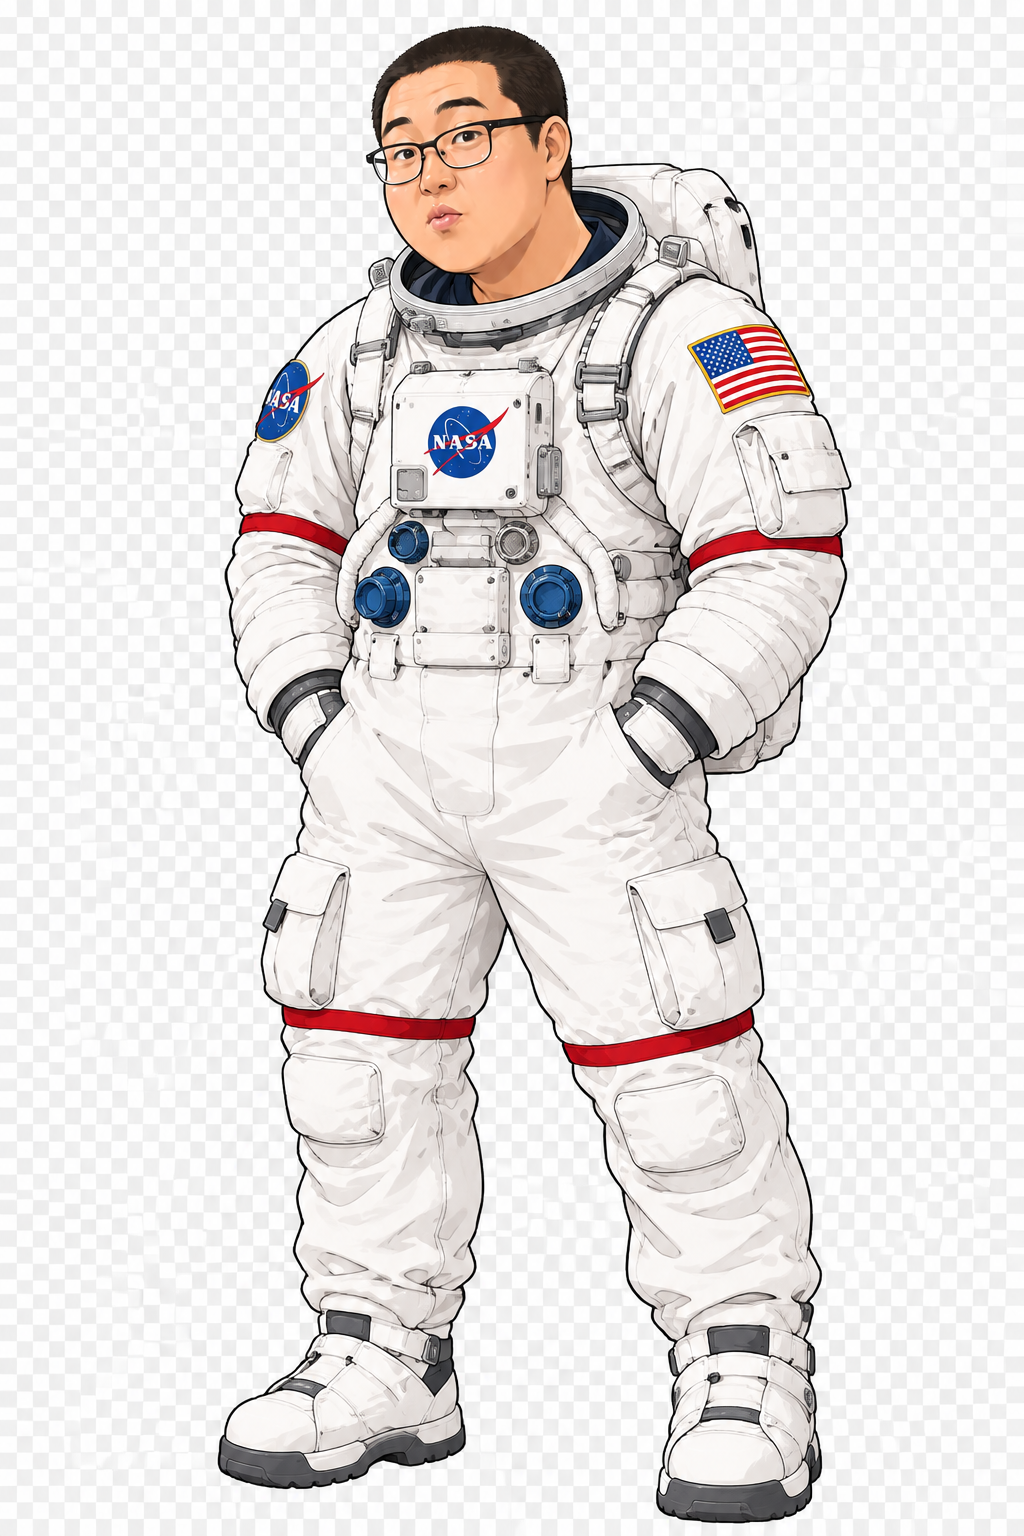
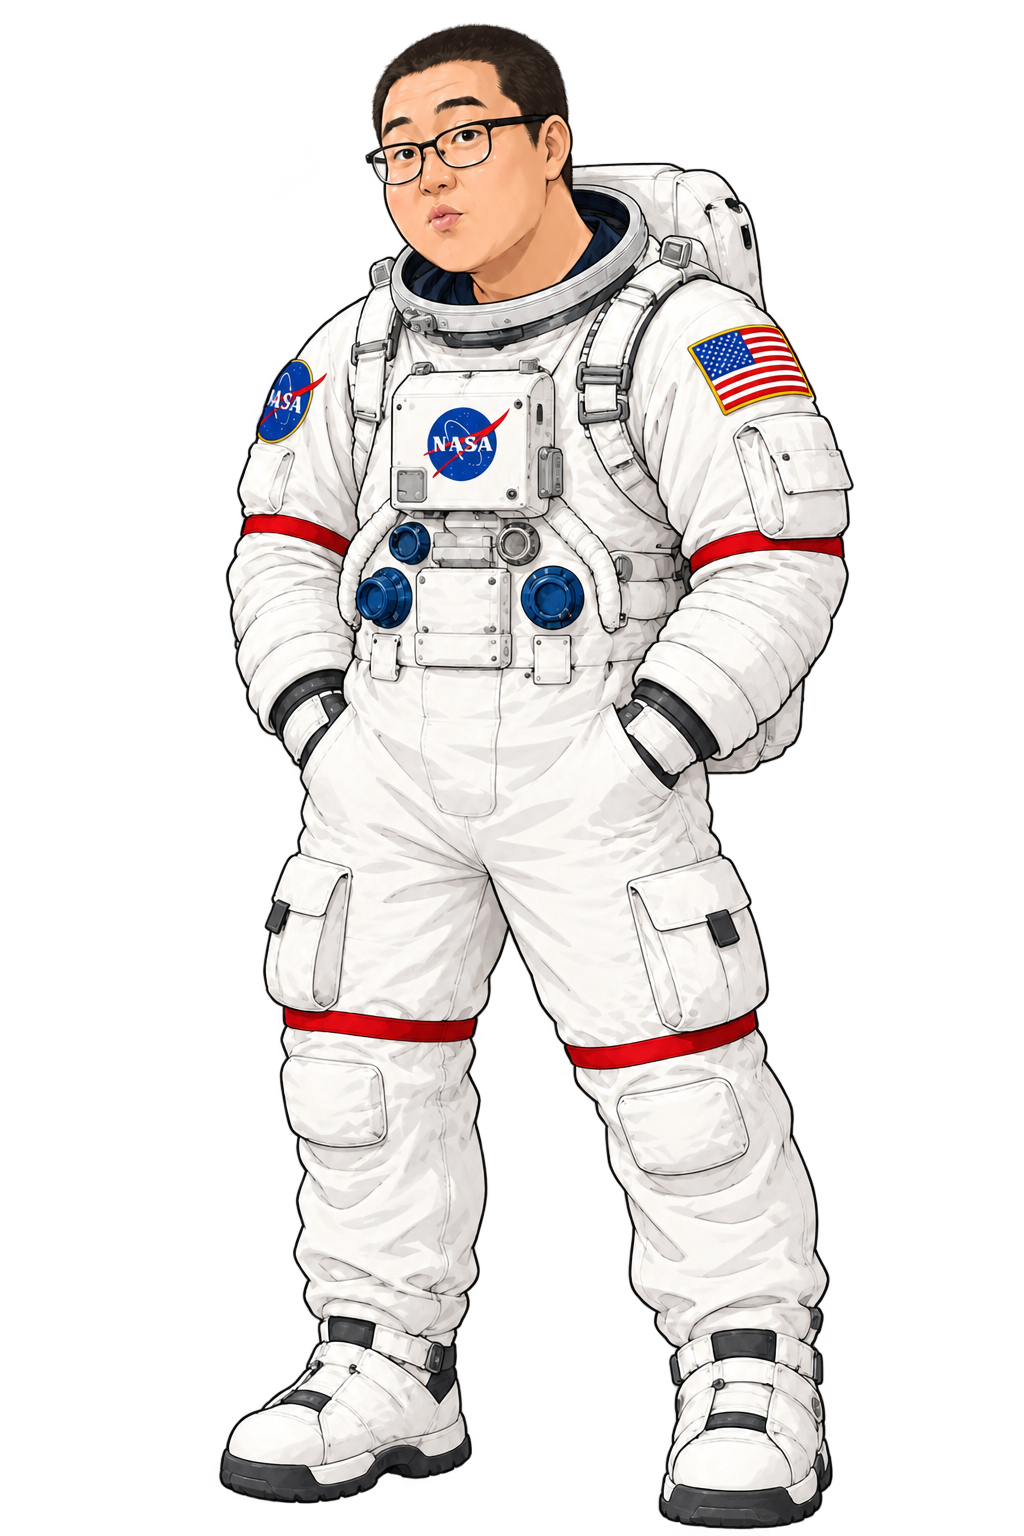
Update Sangki spacesuit artwork

diff --git a/projects.html b/projects.html
@@ -4,7 +4,7 @@
   <meta charset="utf-8">
   <meta name="viewport" content="width=device-width,initial-scale=1">
   <title>Sanggi</title>
-  <link rel="stylesheet" href="style.css?v=87">
+  <link rel="stylesheet" href="style.css?v=88">
 </head>
 <body class="placeholder-page sanggi-page">
   <main aria-label="Sanggi street scene">
@@ -135,7 +135,7 @@
           <button class="sanggi-shop-buy" data-shop-other="sanggi_hanbok" type="button">구매하기</button>
         </article>
         <article class="sanggi-shop-card">
-          <img class="sanggi-shop-item-icon" src="sanggi-spacesuit.png?v=1" alt="상기 우주복" loading="eager">
+          <img class="sanggi-shop-item-icon" src="sanggi-spacesuit.png?v=2" alt="상기 우주복" loading="eager">
           <div><h3>상기 우주복</h3><p>상기가 입을 수 있는 우주복</p><strong>10,000,000원 / 1개</strong></div>
           <button class="sanggi-shop-buy" data-shop-other="sanggi_spacesuit" type="button">구매하기</button>
         </article>
@@ -145,7 +145,7 @@
           <button class="sanggi-shop-buy" data-shop-other="juseong_hanbok" type="button">구매하기</button>
         </article>
         <article class="sanggi-shop-card">
-          <img class="sanggi-shop-item-icon" src="juseong-spacesuit.png?v=1" alt="주성 우주복" loading="eager">
+          <img class="sanggi-shop-item-icon" src="juseong-spacesuit.png?v=2" alt="주성 우주복" loading="eager">
           <div><h3>주성 우주복</h3><p>주성이 입을 수 있는 우주복</p><strong>20,000,000원 / 1개</strong></div>
           <button class="sanggi-shop-buy" data-shop-other="juseong_spacesuit" type="button">구매하기</button>
         </article>
